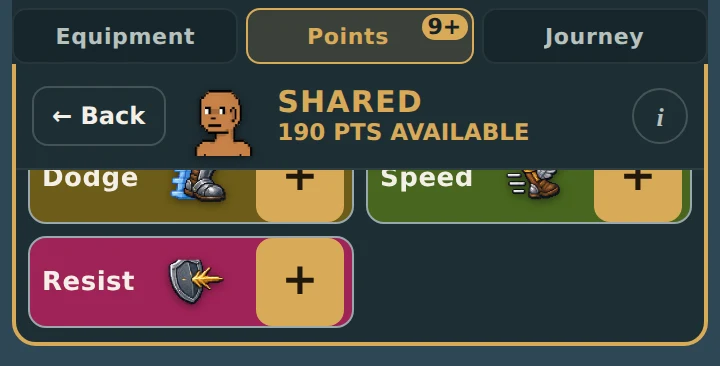
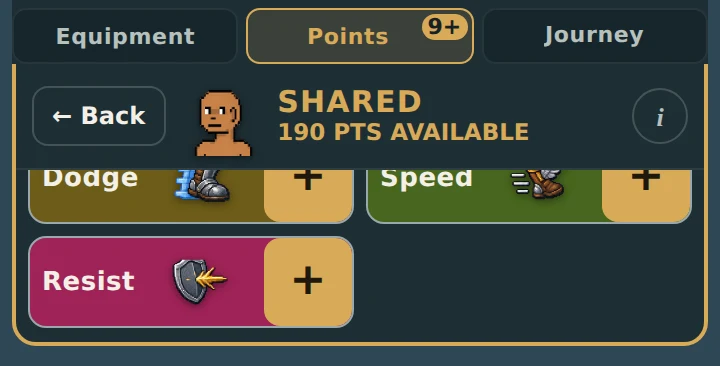
v2.3.2604: the [+] flush to the cell edge, one instruction line instead of two
Two of the six items the owner sent from playing on their phone. The four info
animations are a self-contained set and go in a separate PR.

THE [+] WAS NOT FLUSH — "there's some space showing". Measured before touching
anything, the [+]'s clearance to the cell's border box was top 1, right 5,
bottom 1. The 1s are the grey border, which the [+] belongs inside. The 5 is
1px border + the row's 4px RIGHT PADDING: the [+] is the last flex child, so
that padding lands entirely on it. That is the cause — not a margin, not the
border radius, and not something to nudge by a pixel. Right padding goes to 0;
top and bottom are already correct and stay. After: 1/1/1.

THE SECOND INSTRUCTION LINE is gone. The grid already says "Tap a category,
then spend its points here"; by the time you are inside a card the [+] is the
row's only control and needs no caption. Only the card's line goes. It also
buys the card 19px of the ~191px scrolling window, which is where the card was
overflowing.

AND A CLIPPED LABEL, found while measuring the above and older than this
branch. At 360 in two columns a cell leaves 67px for the label and "Max Mana"
needs 76.4 at 13px/800 — it has been rendering as an ellipsis. Removing the
right padding gave back 4px of the 13.4 it was short and no more, so the label
itself had to give: "Max MP", which reads as the pair of the "Max HP" sitting
next to it. Every other label fits with room (Stamina 62.2, Defense 61.7,
[…]

diff --git a/src/ui/mobile/sheet/HeroExpanded.jsx b/src/ui/mobile/sheet/HeroExpanded.jsx
@@ -1666,10 +1666,6 @@ export const HeroExpanded = () => {
             const colourOn = (() => {
               try { return !/[?&]p3colour=0\b/.test(window.location.search); } catch (e) { return true; }
             })();
-            const CARD_SHORT = { dmg: 'Power', range: 'Range', aspd: 'Speed', luck: 'Luck',
-              special: 'Spec', elem: 'Elem', hp: 'HP', def: 'Def', mana: 'MP', stam: 'Stam',
-              dodge: 'Dodge', move: 'Move', eres: 'Resist' };
-            const cardLabel = (st) => (landPane ? (CARD_SHORT[st.key] || st.label) : st.label);
             const CELL_BORDER = '#9AA7AC';
             const CARD_ROW_H = landPane ? 42 : 46;
             /* ═══ SIDEWAYS, MEASURED RATHER THAN GUESSED ═══
@@ -1714,6 +1710,29 @@ export const HeroExpanded = () => {
                61.81, measured, so the boundary is set where the widest label
                actually stops fitting rather than at a round number. */
             const twoCol = !landPane && !forceOneCol && panelVw() >= 360;
+            const CARD_SHORT = { dmg: 'Power', range: 'Range', aspd: 'Speed', luck: 'Luck',
+              special: 'Spec', elem: 'Elem', hp: 'HP', def: 'Def', mana: 'MP', stam: 'Stam',
+              dodge: 'Dodge', move: 'Move', eres: 'Resist' };
+            /* ═══ v2.3.2604: ONE LABEL DOES NOT FIT TWO COLUMNS ═══
+               Found while measuring the [+]'s clearance, and it pre-dates this
+               branch: at 360 in two columns a cell leaves 67px for the label,
+               and "Max Mana" needs 76.4 at 13px/800 — so it has been rendering
+               as an ellipsis. (On main it had 63px, 13.4 short; taking the
+               right padding off the row gave 4 of that back and no more.)
+               Nothing caught it because the sub-pixel clip check only ran on
+               the first card opened, which is a weapon, and every weapon label
+               is short. The shared card was never measured. It is now.
+               Every other label fits with room: Stamina 62.2, Defense 61.7,
+               Max HP 56.6. So this shortens the ONE that does not, and only
+               where the squeeze exists — "Max MP" reads as the pair of "Max HP"
+               sitting next to it, which is the whole reason "Max Mana" was
+               spelled out in the first place.
+               Shrinking the type instead would have taken every label to 11px,
+               the readability floor, to fit one of them; shrinking the icon or
+               the [+] undoes what the owner asked for in v2.3.2599 and here. */
+            const CARD_TIGHT = { mana: 'Max MP' };
+            const cardLabel = (st) => (landPane ? (CARD_SHORT[st.key] || st.label)
+              : (twoCol ? (CARD_TIGHT[st.key] || st.label) : st.label));
             /* ═══ v2.3.2599: THE STAT ICON, AS LARGE AS THE CELL HOLDS ═══
                Owner: "make the stat icons larger."  The pressure that made this
                hard is gone on three counts — the VALUES left the cell
@@ -1849,7 +1868,20 @@ export const HeroExpanded = () => {
                 <div key={lk} data-prog3-row={lk} style={{
                   flex: 'none', width: '100%', minWidth: 0, height: CARD_ROW_H, boxSizing: 'border-box',
                   display: 'flex', alignItems: 'center', gap: CARD_GAP,
-                  padding: twoCol ? '0 4px 0 6px' : (landPane ? '0 3px 0 6px' : '0 5px 0 9px'),
+                  /* ═══ v2.3.2604: NO RIGHT PADDING — THE [+] IS FLUSH ═══
+                     Owner: "Move plus sign to the very edge of the cell there's
+                     some space showing."  Measured before touching anything:
+                     the [+]'s gaps to the cell's border box were top 1, bottom
+                     1, right 5, and the 5 is 1px border + 4px RIGHT PADDING.
+                     The [+] is the last flex child, so the row's right padding
+                     lands entirely on it — that is the space, not a stray
+                     margin or the radius. Padding goes to 0 on the right only;
+                     the top/bottom 1 stays because that IS the grey border, and
+                     the [+] belongs inside it.
+                     Two things fall out of it: the [+] gains those 4px of
+                     width, and so does the label — the 360 two-column row that
+                     had exactly 0px of leftover (v2.3.2602) now has 4. */
+                  padding: twoCol ? '0 0 0 6px' : (landPane ? '0 0 0 6px' : '0 0 0 9px'),
                   /* ═══ v2.3.2598: THE WHOLE CELL CARRIES THE STAT'S COLOUR ═══
                      Owner: "Don't make just the edge of the cell the different
                      colors make the whole background those different colors for
@@ -2270,12 +2302,24 @@ export const HeroExpanded = () => {
               <div data-prog3-points style={{ display: 'flex', flexDirection: 'column', minWidth: 0 }}>
                 {/* The reference's own instruction line.  A hint, not a control
                     (the v2.3.2326 caption rule), and it says what the two-step
-                    shape needs a first-time player to know. */}
-                <div style={{
-                  height: 15, lineHeight: '15px', textAlign: 'center', marginBottom: 4,
-                  fontSize: 11, color: COL.text2, flex: 'none',
-                  whiteSpace: 'nowrap', overflow: 'hidden', textOverflow: 'ellipsis',
-                }}>{selLane ? 'Tap + to spend a point.' : 'Tap a category, then spend its points here.'}</div>
+                    shape needs a first-time player to know.
+                    ═══ v2.3.2604: GRID ONLY ═══
+                    Owner: "Remove 'tap + to spend a point' row on points menu."
+                    It was the SECOND instruction in two screens — the grid
+                    already says "Tap a category, then spend its points here",
+                    and by the time you are inside a card the [+] is the only
+                    control on the row and needs no caption.  Only the card's
+                    line goes; the grid's stays, because that one is telling a
+                    first-time player the two-step shape.
+                    It buys the card 19px (15 tall + 4 margin) of the ~191px
+                    scrolling window, which is where the card was overflowing. */}
+                {selLane ? null : (
+                  <div style={{
+                    height: 15, lineHeight: '15px', textAlign: 'center', marginBottom: 4,
+                    fontSize: 11, color: COL.text2, flex: 'none',
+                    whiteSpace: 'nowrap', overflow: 'hidden', textOverflow: 'ellipsis',
+                  }}>Tap a category, then spend its points here.</div>
+                )}
                 {selLane ? catCard(selLane) : catGrid()}
               </div>
               </>
